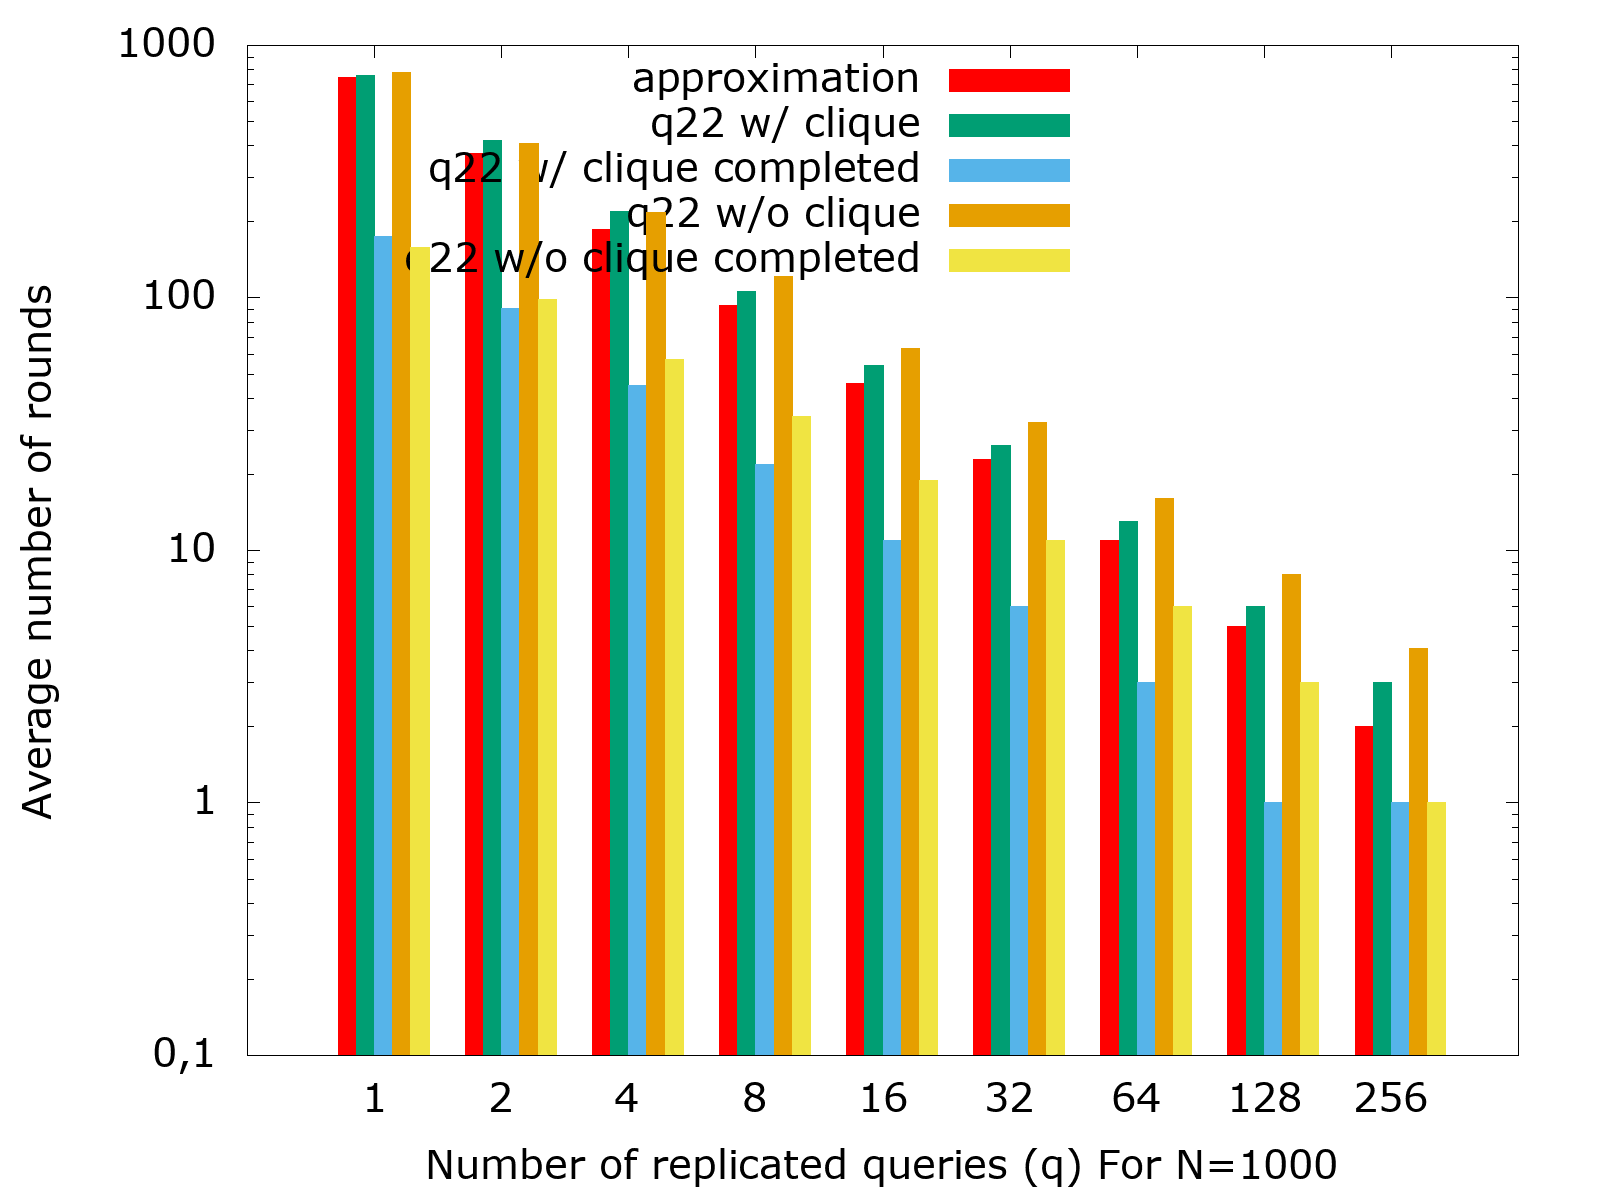
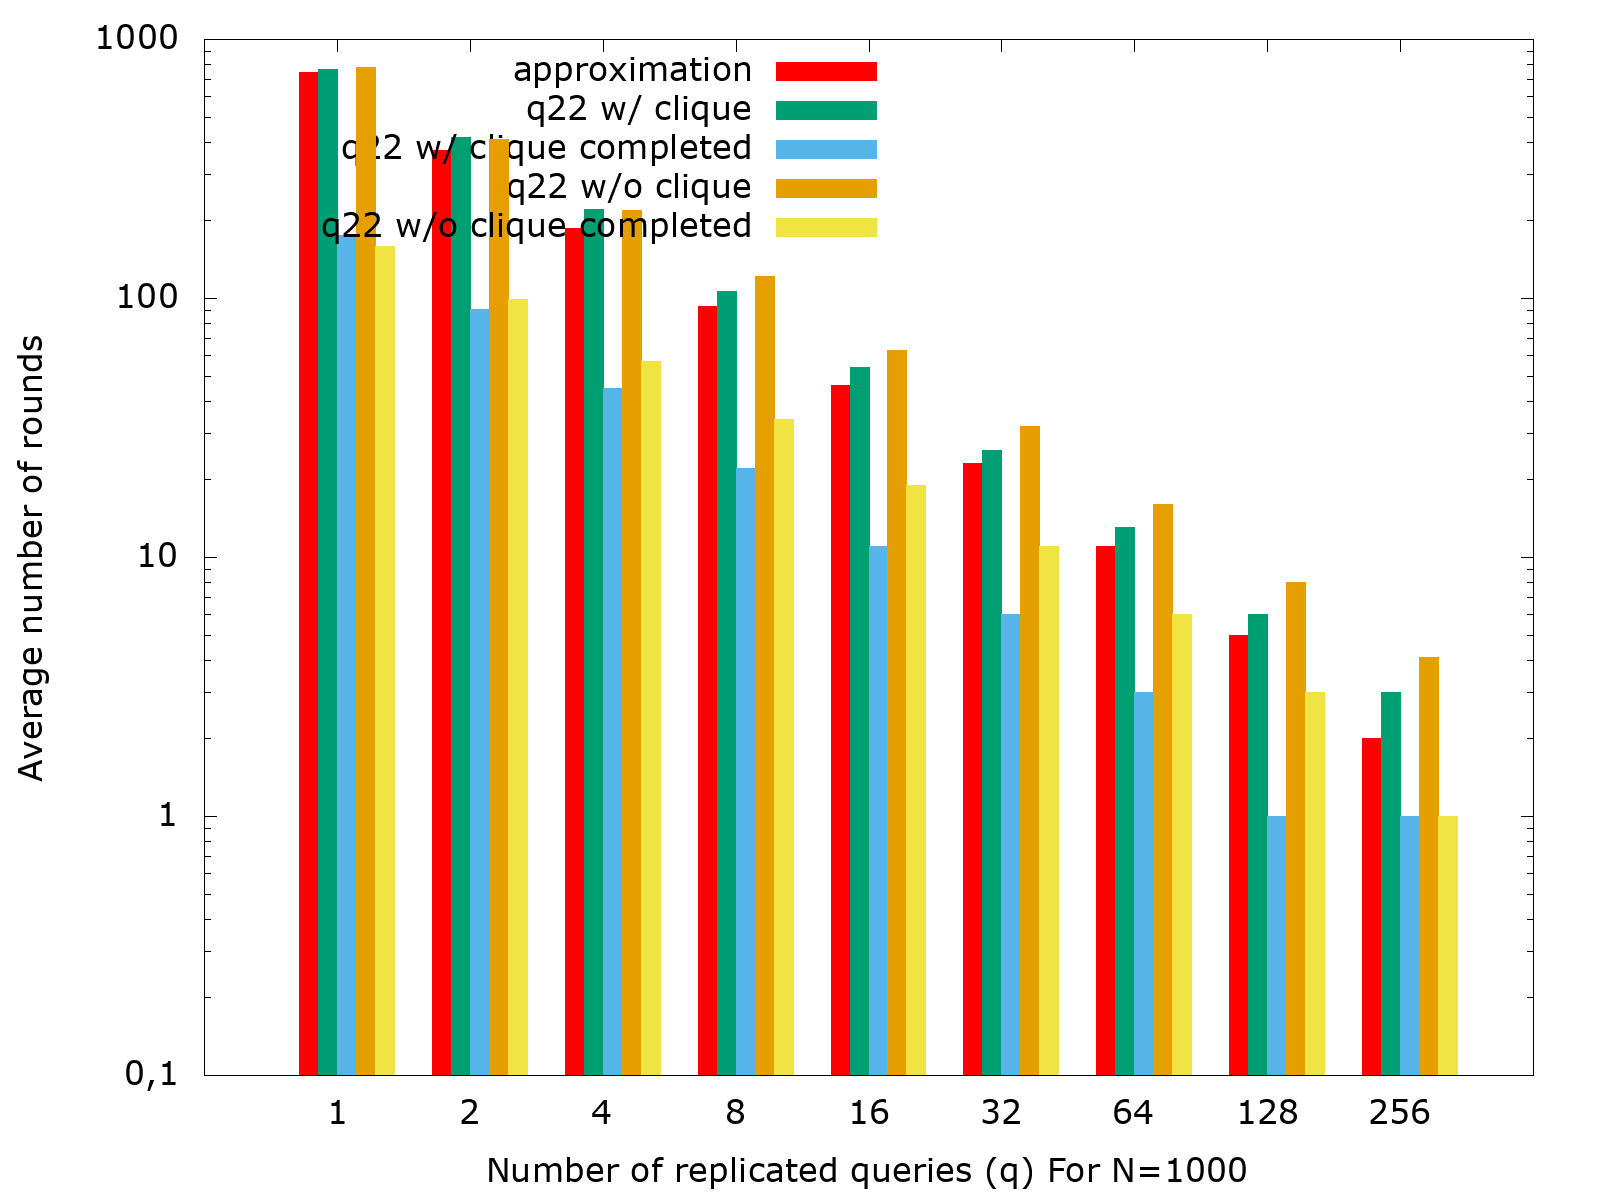
new results in readme

diff --git a/scripts/mean.js b/scripts/mean.js
@@ -66,7 +66,6 @@ function processFile(file, directory) {
                 const SON = files[i + 3]
                 const TRAFFIC = files[i + 5]
                 average.push(Q, SON, TRAFFIC)
-                console.log(files)
                 const output = path.resolve(`${directory}/${Q}${SON}${TRAFFIC}-mean.csv`)
                 const output2 = path.resolve(`${directory}/${SON}${TRAFFIC}-mean.csv`)
                 const global = path.resolve(`${directory}/global-mean.csv`)

diff --git a/README.md b/README.md
@@ -74,7 +74,7 @@ mvn clean package shade:shade
 java -cp target/classes/ snob.simulation.VarNoclique
 ````
 
-![](scripts/variations/plotN.png)
+![](scripts/variations/plotN.png | width=100)
 
 ## Variations of N using the clique
 
@@ -109,6 +109,9 @@ java -cp target/classes/ snob.simulation.VarClique
 ![](results/55f16ca24b08ef2725fbbc5088942a1e-all/q17-simulation-traffic-triples.png)
 ![](results/55f16ca24b08ef2725fbbc5088942a1e-all/q17-simulation-traffic-messages.png)
 
+### Comparison between Algorithm 1 and 2
+![](results/review2-a13fa1a657bcaed2b0c17154e6b69b2b-all/q17-review2-simulation-round-traffictrue.png)
+
 ## Query 22
 
 ### Rounds
@@ -119,6 +122,9 @@ java -cp target/classes/ snob.simulation.VarClique
 
 ![](results/55f16ca24b08ef2725fbbc5088942a1e-all/q22-simulation-traffic-triples.png)
 ![](results/55f16ca24b08ef2725fbbc5088942a1e-all/q22-simulation-traffic-messages.png)
+
+### Comparison between Algorithm 1 and 2
+![](results/review2-a13fa1a657bcaed2b0c17154e6b69b2b-all/q22-review2-simulation-round-traffictrue.png)
 
 ## Query 54
 
@@ -131,6 +137,9 @@ java -cp target/classes/ snob.simulation.VarClique
 ![](results/55f16ca24b08ef2725fbbc5088942a1e-all/q54-simulation-traffic-triples.png)
 ![](results/55f16ca24b08ef2725fbbc5088942a1e-all/q54-simulation-traffic-messages.png)
 
+### Comparison between Algorithm 1 and 2
+![](results/review2-a13fa1a657bcaed2b0c17154e6b69b2b-all/q54-review2-simulation-round-traffictrue.png)
+
 ## Query 73
 
 ### Rounds
@@ -141,6 +150,10 @@ java -cp target/classes/ snob.simulation.VarClique
 
 ![](results/55f16ca24b08ef2725fbbc5088942a1e-all/q73-simulation-traffic-triples.png)
 ![](results/55f16ca24b08ef2725fbbc5088942a1e-all/q73-simulation-traffic-messages.png)
+
+### Comparison between Algorithm 1 and 2
+![](results/review2-a13fa1a657bcaed2b0c17154e6b69b2b-all/q73-review2-simulation-round-traffictrue.png)
+
 
 ## Query 87
 
@@ -153,3 +166,5 @@ java -cp target/classes/ snob.simulation.VarClique
 ![](results/55f16ca24b08ef2725fbbc5088942a1e-all/q87-simulation-traffic-triples.png)
 ![](results/55f16ca24b08ef2725fbbc5088942a1e-all/q87-simulation-traffic-messages.png)
 
+### Comparison between Algorithm 1 and 2
+![](results/review2-a13fa1a657bcaed2b0c17154e6b69b2b-all/q87-review2-simulation-round-traffictrue.png)
